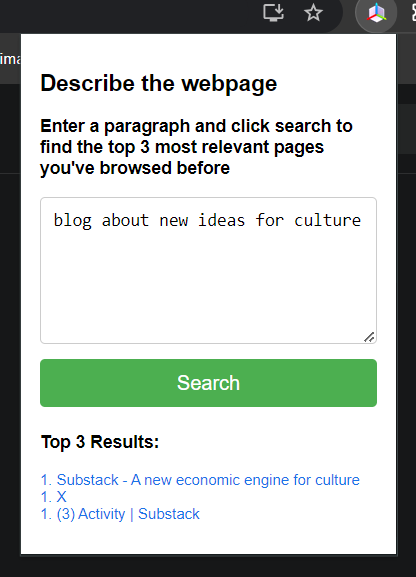
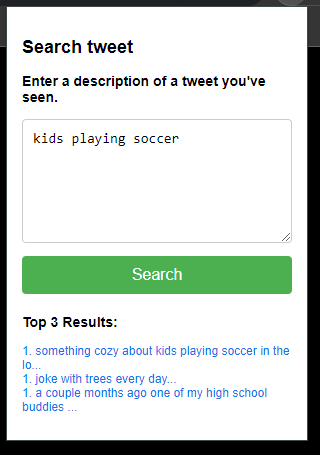
update readme

diff --git a/README.md b/README.md
@@ -1,6 +1,6 @@
-# Browser History Search with Semantic Embeddings (WIP)
+# Search Tweets you've seen with Semantic Embeddings (WIP)
 
-Current state: super minimal prototype. Probably will make this specific for twitter search.
+Current state: super minimal prototype. 
 
 <img src="https://github.com/LourensT/histsearch/blob/master/popup.PNG" alt="Pop up preview" width="350"/>
 
@@ -23,3 +23,11 @@ Then go to
 * `chrome-extension://\<id\>/manifest.json`
 
 and inspect the storage in the right-most tab.
+
+## To do
+- [ ] Only add tweets that are actually displayed instead of _all_ that are loaded by timeline
+- [ ] Test how replies are handled
+- [ ] Test how quoted tweets are handled
+- [ ] Test how retweets are handled
+- [ ] Include support for replies
+- [ ] In the search results show who tweeted it instead of only text, and the cosim score
